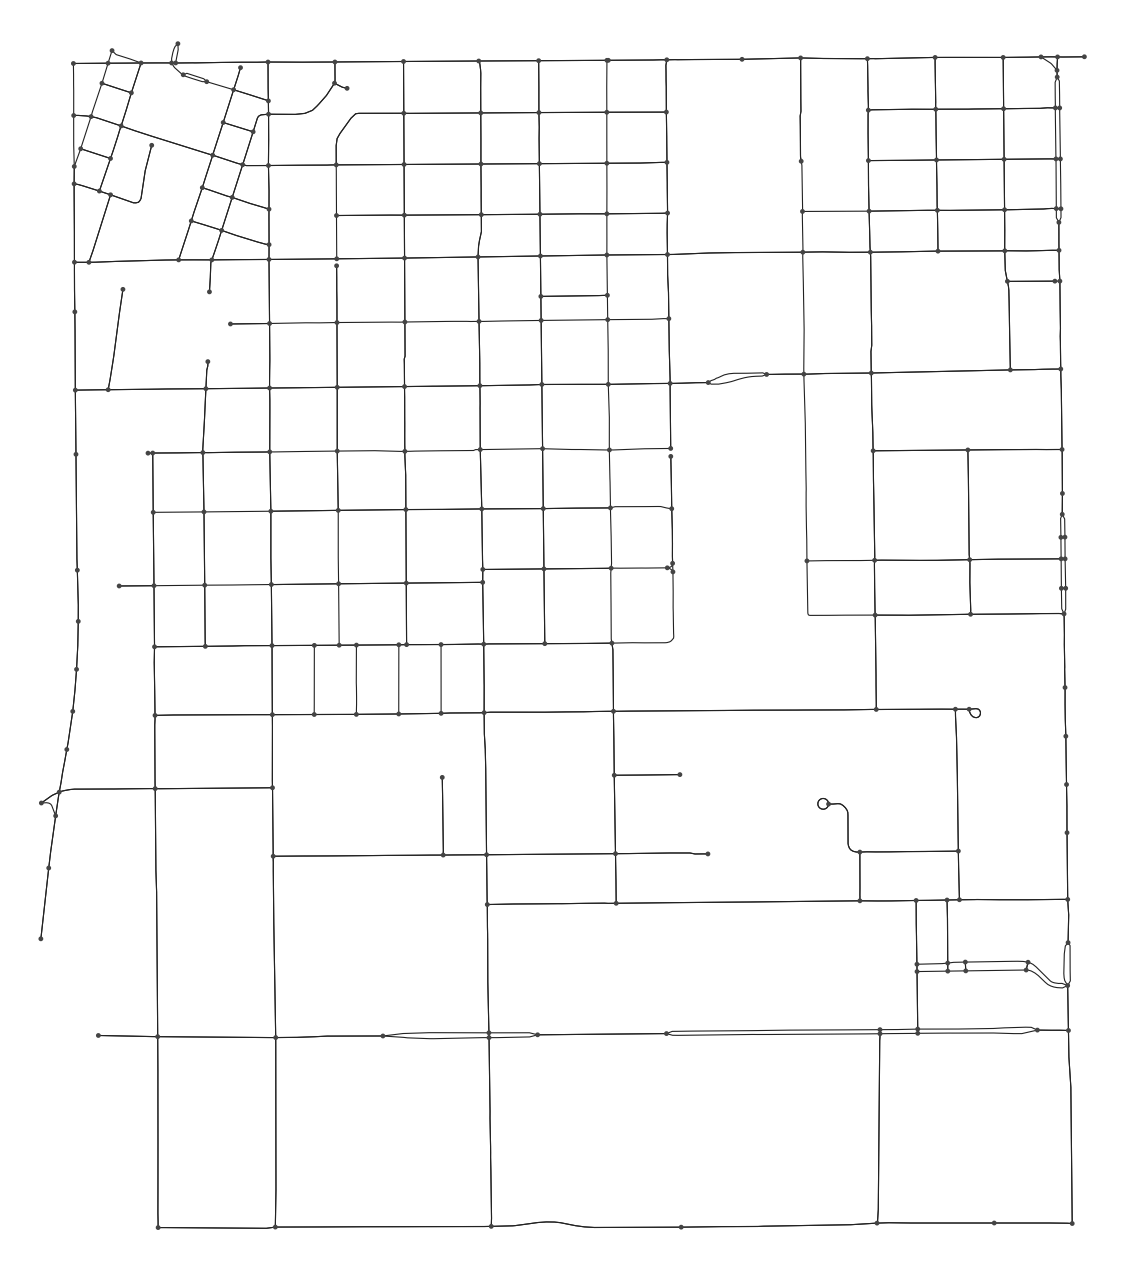
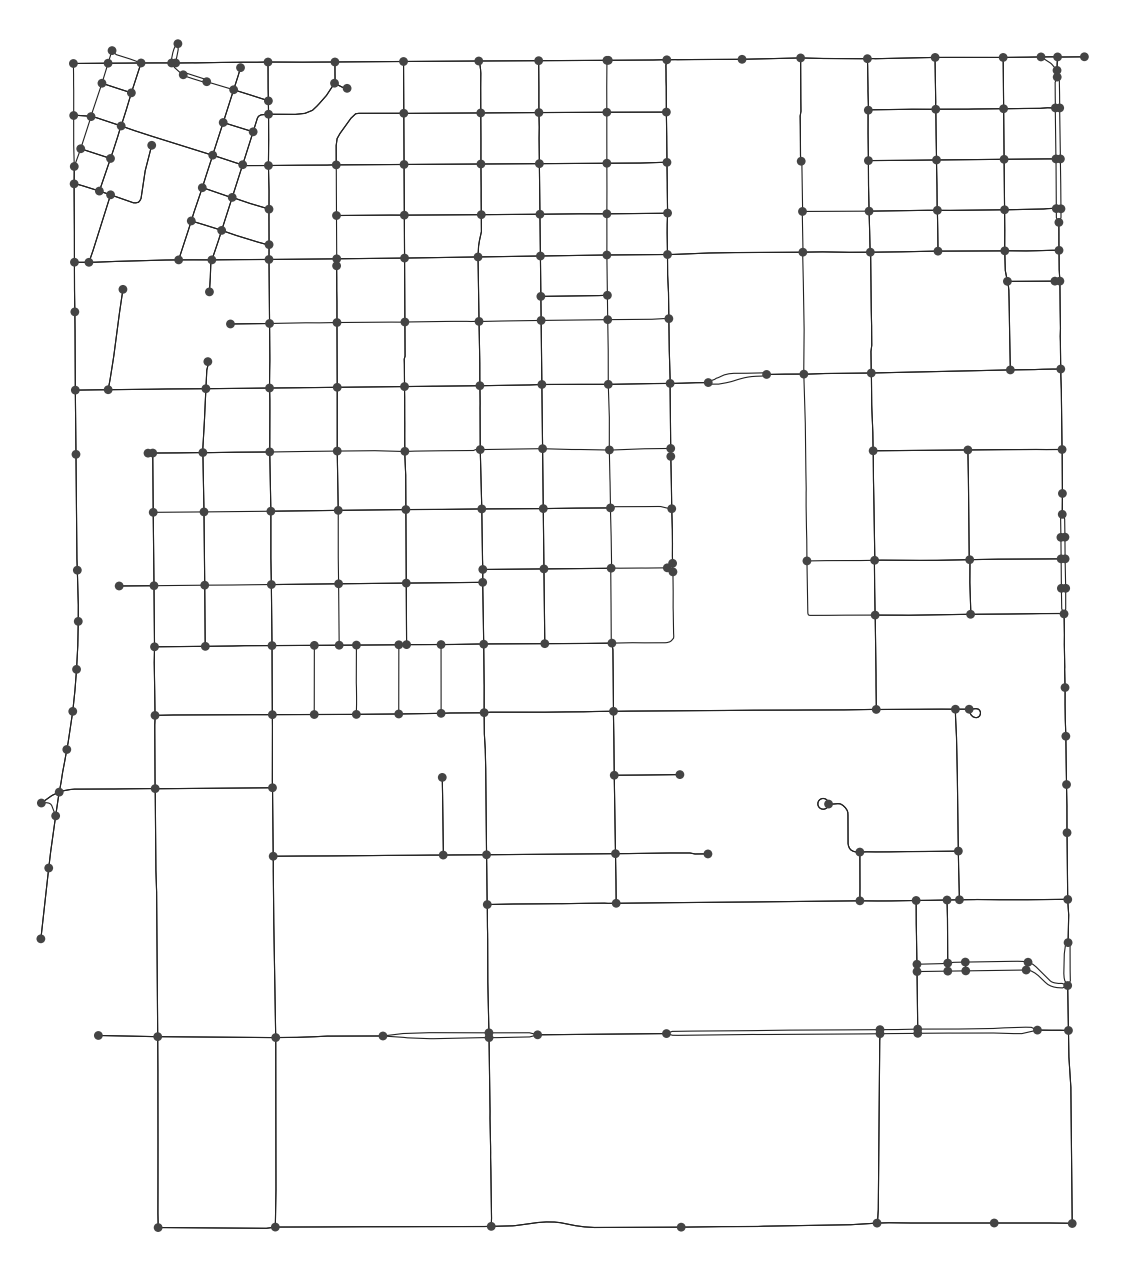
Latest

diff --git a/build_uiuc_graph.py b/build_uiuc_graph.py
@@ -68,7 +68,7 @@ def plot_graph(G, out_path="uiuc_osm_graph.png", dpi=200):
     """Plot the graph with OSMnx/matplotlib and export to an image file."""
     fig, ax = ox.plot_graph(
         G,
-        node_size=3,
+        node_size=10,
         node_color="#444444",
         edge_color="#222222",
         edge_linewidth=0.4,
@@ -180,8 +180,7 @@ def main():
     print(f"Saved plot to: {out_img}")
 
     # 4) Attach crimes to the simple graph and export adjacency
-    if crimes_csv:
-        attach_crimes_to_graph(G, crimes_csv)
+    attach_crimes_to_graph(G, crimes_csv)
     out_adj = save_adjacency_json(G, output_adjacency)
     print(f"Saved adjacency JSON to: {out_adj}")
 
